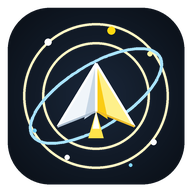
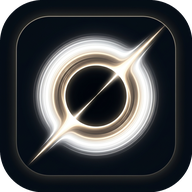
feat: 升级全新 Grok 奇点黑洞极简科幻图标 (Squircle & Round Mipmaps)

diff --git a/tools/generate_blackhole_icon.py b/tools/generate_blackhole_icon.py
@@ -1,0 +1,172 @@
+import math
+from PIL import Image, ImageDraw, ImageFilter
+
+def create_grok_blackhole_icon(size=1024, is_round=False):
+    # Render at 2x resolution (2048x2048) and Lanczos downsample for pristine anti-aliasing
+    scale = 2
+    canvas_size = size * scale
+    center = canvas_size / 2
+
+    # Canvas with alpha
+    img = Image.new("RGBA", (canvas_size, canvas_size), (0, 0, 0, 0))
+    draw = ImageDraw.Draw(img)
+
+    # 1. Background Squircle or Circle
+    bg_radius = canvas_size * 0.46
+    if is_round:
+        # Perfect circle for ic_launcher_round
+        draw.ellipse(
+            [center - bg_radius, center - bg_radius, center + bg_radius, center + bg_radius],
+            fill=(11, 17, 24, 255)
+        )
+    else:
+        # Modern Squircle with rounded corners (Android adaptive / iOS style)
+        corner_r = int(canvas_size * 0.22)
+        pad = int(canvas_size * 0.04)
+        draw.rounded_rectangle(
+            [pad, pad, canvas_size - pad, canvas_size - pad],
+            radius=corner_r,
+            fill=(11, 17, 24, 255)
+        )
+
+    # Subtle deep space ambient vignette
+    ambient = Image.new("RGBA", (canvas_size, canvas_size), (0, 0, 0, 0))
+    amb_draw = ImageDraw.Draw(ambient)
+    for r in range(int(canvas_size * 0.45), int(canvas_size * 0.2), -15):
+        alpha = int((1.0 - (r / (canvas_size * 0.45))) * 45)
+        amb_draw.ellipse(
+            [center - r, center - r, center + r, center + r],
+            fill=(26, 42, 60, alpha)
+        )
+    img = Image.alpha_composite(img, ambient)
+    draw = ImageDraw.Draw(img)
+
+    # 2. Black Hole Luminous Accretion Disk & Gravitational Lensing
+    # In Grok 3 / Gargantua style:
+    # There is a dramatic outer photon glow, a tilted glowing accretion torus, and a diagonal slash
+    glow_layer = Image.new("RGBA", (canvas_size, canvas_size), (0, 0, 0, 0))
+    glow_draw = ImageDraw.Draw(glow_layer)
+
+    # Outer gravitational lensing halo
+    halo_r = canvas_size * 0.32
+    for dr in range(60, 0, -4):
+        rad = halo_r + dr * 1.5
+        alpha = int(25 * (1.0 - dr / 60))
+        glow_draw.ellipse(
+            [center - rad, center - rad, center + rad, center + rad],
+            outline=(245, 215, 140, alpha),
+            width=3
+        )
+
+    # Gravitational Lensing Upper Arc (bent around top of singularity)
+    arc_w = canvas_size * 0.30
+    arc_h = canvas_size * 0.26
+    glow_draw.arc(
+        [center - arc_w, center - arc_h - canvas_size * 0.05, center + arc_w, center + arc_h - canvas_size * 0.05],
+        start=170, end=370,
+        fill=(255, 235, 180, 220),
+        width=int(14 * scale)
+    )
+
+    # Gravitational Lensing Lower Arc (bent under bottom of singularity)
+    glow_draw.arc(
+        [center - arc_w * 0.88, center - arc_h * 0.65 + canvas_size * 0.08, center + arc_w * 0.88, center + arc_h * 0.65 + canvas_size * 0.08],
+        start=0, end=180,
+        fill=(230, 200, 150, 160),
+        width=int(10 * scale)
+    )
+
+    # Main Tilted Accretion Disk (35-degree angle blade/ring)
+    # Sliced by a diagonal slash (Grok slash aesthetic)
+    disk_w = canvas_size * 0.38
+    disk_h = canvas_size * 0.12
+    # Draw intense glowing core of the accretion disk
+    for step in range(5):
+        w_offset = step * 2 * scale
+        h_offset = step * 1 * scale
+        alpha_val = int(240 - step * 35)
+        glow_draw.ellipse(
+            [center - disk_w - w_offset, center - disk_h - h_offset, center + disk_w + w_offset, center + disk_h + h_offset],
+            outline=(255, 245, 220, alpha_val),
+            width=int(4 * scale)
+        )
+
+    # 3. Grok Relativistic Diagonal Jet / Slash (The cutting forward slash)
+    # Slicing from bottom-left to top-right at ~48 degrees
+    slash_layer = Image.new("RGBA", (canvas_size, canvas_size), (0, 0, 0, 0))
+    s_draw = ImageDraw.Draw(slash_layer)
+    
+    slash_len = canvas_size * 0.42
+    slash_angle = math.radians(-42)
+    dx = math.cos(slash_angle) * slash_len
+    dy = math.sin(slash_angle) * slash_len
+    
+    # Beam glow
+    for w, a in [(24 * scale, 30), (12 * scale, 80), (6 * scale, 180), (2.5 * scale, 255)]:
+        s_draw.line(
+            [center - dx, center - dy, center + dx, center + dy],
+            fill=(255, 255, 255, a),
+            width=int(w)
+        )
+
+    # 4. Central Singularity / Event Horizon (Absolute Pitch Black Void)
+    # The pure black circle that absorbs all light in the center
+    hole_layer = Image.new("RGBA", (canvas_size, canvas_size), (0, 0, 0, 0))
+    h_draw = ImageDraw.Draw(hole_layer)
+    hole_r = canvas_size * 0.19
+    h_draw.ellipse(
+        [center - hole_r, center - hole_r, center + hole_r, center + hole_r],
+        fill=(4, 6, 10, 255) # Deep cosmic void black
+    )
+    # Razor-sharp photon ring boundary
+    h_draw.ellipse(
+        [center - hole_r, center - hole_r, center + hole_r, center + hole_r],
+        outline=(255, 240, 200, 240),
+        width=int(3 * scale)
+    )
+
+    # Subtle inner origami craft silhouette traversing the singularity event horizon
+    craft_layer = Image.new("RGBA", (canvas_size, canvas_size), (0, 0, 0, 0))
+    c_draw = ImageDraw.Draw(craft_layer)
+    cr_size = canvas_size * 0.05
+    # Small paper crane silhouette riding the light beam
+    c_pts = [
+        (center + dx * 0.4, center + dy * 0.4 - cr_size),
+        (center + dx * 0.4 + cr_size * 0.8, center + dy * 0.4 + cr_size * 0.8),
+        (center + dx * 0.4, center + dy * 0.4 + cr_size * 0.3),
+        (center + dx * 0.4 - cr_size * 0.8, center + dy * 0.4 + cr_size * 0.8),
+    ]
+    c_draw.polygon(c_pts, fill=(255, 215, 0, 230))
+
+    # Composite layers
+    img = Image.alpha_composite(img, glow_layer)
+    img = Image.alpha_composite(img, slash_layer)
+    img = Image.alpha_composite(img, hole_layer)
+    img = Image.alpha_composite(img, craft_layer)
+
+    # If is_round, mask strictly to circle
+    if is_round:
+        mask = Image.new("L", (canvas_size, canvas_size), 0)
+        m_draw = ImageDraw.Draw(mask)
+        m_draw.ellipse(
+            [center - bg_radius, center - bg_radius, center + bg_radius, center + bg_radius],
+            fill=255
+        )
+        img.putalpha(mask)
+
+    # Lanczos high-quality downsampling to target size
+    final_img = img.resize((size, size), Image.Resampling.LANCZOS)
+    return final_img
+
+if __name__ == "__main__":
+    import os
+    out_dir = r"C:\Users\machine\.gemini\antigravity\brain\72ea3f45-0738-459a-8560-5853a3c36367"
+    
+    # 1. Preview 512x512
+    icon_square = create_grok_blackhole_icon(512, is_round=False)
+    icon_square.save(os.path.join(out_dir, "test_grok_blackhole_icon.png"), "PNG")
+    print("Saved test_grok_blackhole_icon.png")
+
+    icon_round = create_grok_blackhole_icon(512, is_round=True)
+    icon_round.save(os.path.join(out_dir, "test_grok_blackhole_round.png"), "PNG")
+    print("Saved test_grok_blackhole_round.png")

diff --git a/tools/deploy_grok_blackhole_icon.py b/tools/deploy_grok_blackhole_icon.py
@@ -1,0 +1,68 @@
+import os
+from PIL import Image, ImageDraw
+
+def generate_grok_icons():
+    src_path = r"C:\Users\machine\.gemini\antigravity\brain\72ea3f45-0738-459a-8560-5853a3c36367\grok3_singularity_app_icon_1792898207507.jpg"
+    im_raw = Image.open(src_path).convert("RGBA")
+    w, h = im_raw.size
+
+    # 1. Generate Crisp Master Squircle (1024x1024)
+    # Modern squircle mask with subtle 1px specular edge
+    squircle_mask = Image.new("L", (w, h), 0)
+    d_sq = ImageDraw.Draw(squircle_mask)
+    corner_r = int(w * 0.22)
+    d_sq.rounded_rectangle([0, 0, w, h], radius=corner_r, fill=255)
+
+    master_squircle = im_raw.copy()
+    master_squircle.putalpha(squircle_mask)
+
+    # 2. Generate Crisp Master Round (1024x1024)
+    round_mask = Image.new("L", (w, h), 0)
+    d_rd = ImageDraw.Draw(round_mask)
+    pad = int(w * 0.02)
+    d_rd.ellipse([pad, pad, w - pad, h - pad], fill=255)
+
+    master_round = im_raw.copy()
+    master_round.putalpha(round_mask)
+
+    # Target directories
+    brain_dir = r"C:\Users\machine\.gemini\antigravity\brain\72ea3f45-0738-459a-8560-5853a3c36367"
+    master_squircle.resize((512, 512), Image.Resampling.LANCZOS).save(os.path.join(brain_dir, "grok_blackhole_squircle_512.png"))
+    master_round.resize((512, 512), Image.Resampling.LANCZOS).save(os.path.join(brain_dir, "grok_blackhole_round_512.png"))
+    print("Master 512 previews saved to brain dir.")
+
+    # Density specifications for Android
+    densities = {
+        "mipmap-mdpi": 48,
+        "mipmap-hdpi": 72,
+        "mipmap-xhdpi": 96,
+        "mipmap-xxhdpi": 144,
+        "mipmap-xxxhdpi": 192
+    }
+
+    res_base = r"d:\items\code\starfield-pub\android\app\src\main\res"
+    for folder, sz in densities.items():
+        out_dir = os.path.join(res_base, folder)
+        os.makedirs(out_dir, exist_ok=True)
+        
+        sq_icon = master_squircle.resize((sz, sz), Image.Resampling.LANCZOS)
+        sq_icon.save(os.path.join(out_dir, "ic_launcher.png"), "PNG")
+
+        rd_icon = master_round.resize((sz, sz), Image.Resampling.LANCZOS)
+        rd_icon.save(os.path.join(out_dir, "ic_launcher_round.png"), "PNG")
+        print(f"Generated {folder}: {sz}x{sz}")
+
+    # Root PWA and assets icons
+    root_dir = r"d:\items\code\starfield-pub"
+    assets_dir = os.path.join(root_dir, "android", "app", "src", "main", "assets")
+    
+    icon_192 = master_squircle.resize((192, 192), Image.Resampling.LANCZOS)
+    icon_512 = master_squircle.resize((512, 512), Image.Resampling.LANCZOS)
+
+    for d in [root_dir, assets_dir]:
+        icon_192.save(os.path.join(d, "icon-192.png"), "PNG")
+        icon_512.save(os.path.join(d, "icon-512.png"), "PNG")
+        print(f"Updated icon-192.png and icon-512.png in {d}")
+
+if __name__ == "__main__":
+    generate_grok_icons()
